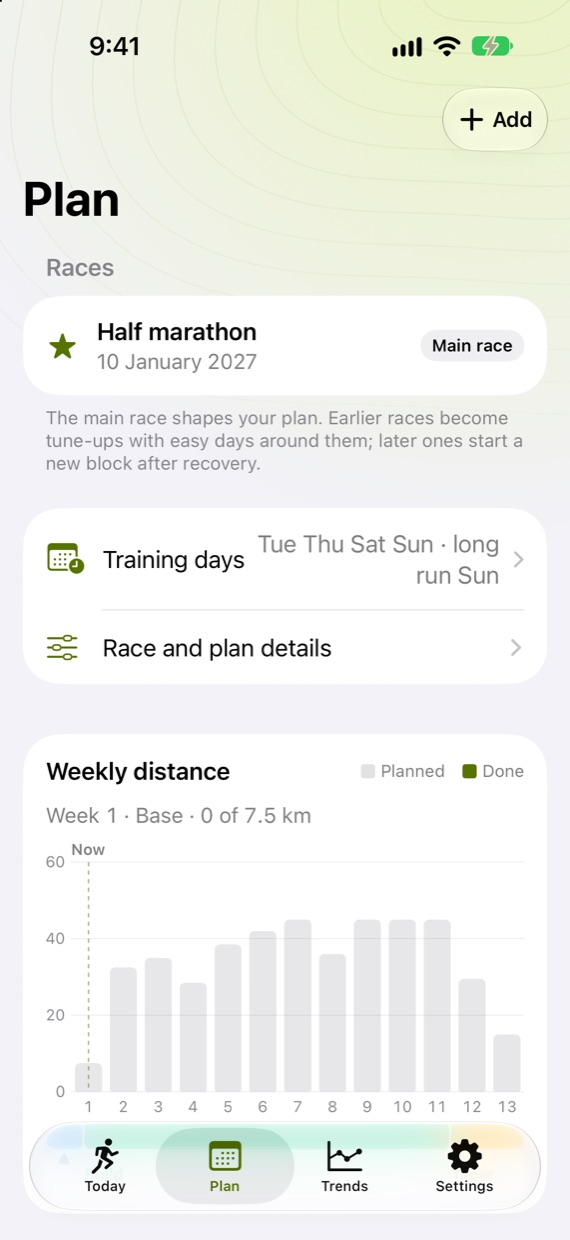
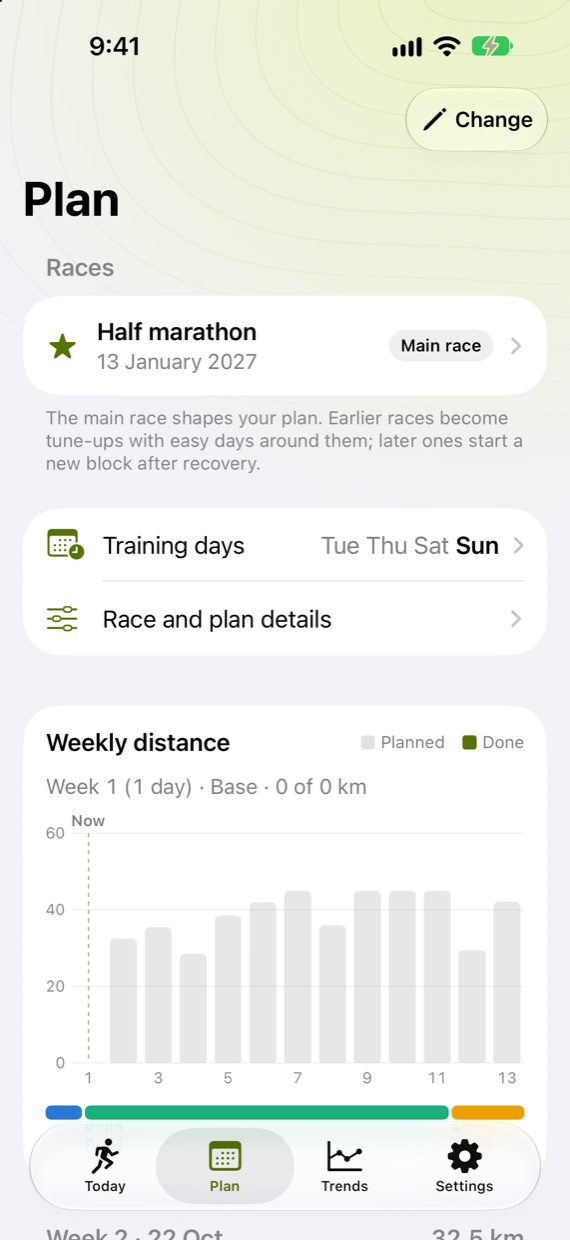
Bring site up to date with 0.65: privacy (heart rates stay on device, photos, Siri, no Sign in with Apple), habit goals, training methods, Siri and week options, new screenshots

diff --git a/index.html b/index.html
@@ -20,7 +20,7 @@
   <div>
     <span class="eyebrow">For iPhone and Apple Watch</span>
     <h1>Train for <em>race day</em>, not a template.</h1>
-    <p class="lede">Pick your event and date. RaceWise builds a safe, step-by-step plan from where you are now – and changes it with you.</p>
+    <p class="lede">Pick a race, set a personal target or simply build a habit. RaceWise builds a safe, step-by-step plan from where you are now – and changes it with you.</p>
     <div class="cta">
       <span class="btn btn-primary"><span class="dot"></span>Coming soon to the App Store</span>
       <a class="btn btn-ghost" href="#how">How it works</a>
@@ -28,7 +28,7 @@
     <div class="sports"><span><i aria-hidden="true">🏃</i>Running</span><span><i aria-hidden="true">🏊</i>Swimming</span><span><i aria-hidden="true">🚴</i>Cycling</span><span><i aria-hidden="true">🚣</i>Rowing</span></div>
   </div>
   <div class="phones" aria-hidden="true">
-    <div class="phone back"><img src="img/en-plan.jpg" alt="" loading="lazy"></div>
+    <div class="phone back"><img src="img/en-plan.jpg" alt=""></div>
     <div class="phone front"><img src="img/en-today.jpg" alt=""></div>
   </div>
 </div></section>
@@ -37,7 +37,7 @@
   <section class="section" id="features">
     <div class="section-head"><span class="eyebrow">Why RaceWise</span><h2>A coach that keeps up with real life.</h2><p>Plans that bend when your week does – without ever piling on missed training.</p></div>
     <div class="features">
-      <div class="feature"><div class="ico"><svg viewBox="0 0 24 24"><path d="M4 22V4"/><path d="M4 4h12l-2 4 2 4H4"/></svg></div><h3>Built around your race</h3><p>Choose from hundreds of checked events or type your own. Every week leads to your race day.</p></div>
+      <div class="feature"><div class="ico"><svg viewBox="0 0 24 24"><path d="M4 22V4"/><path d="M4 4h12l-2 4 2 4H4"/></svg></div><h3>Built around your goal</h3><p>Choose from hundreds of checked events, set your own target date, or just build a habit with easy, short sessions.</p></div>
       <div class="feature"><div class="ico"><svg viewBox="0 0 24 24"><path d="M21 12a9 9 0 1 1-3-6.7L21 8"/><path d="M21 3v5h-5"/></svg></div><h3>Adjusts as you go</h3><p>Move or skip sessions, run a day early – the plan rebalances. It never crams missed training back in.</p></div>
       <div class="feature"><div class="ico"><svg viewBox="0 0 24 24"><path d="M20.8 4.6a5.5 5.5 0 0 0-7.8 0L12 5.7l-1-1.1a5.5 5.5 0 0 0-7.8 7.8L12 21l8.8-8.6a5.5 5.5 0 0 0 0-7.8z"/><path d="M3 12h4l2-3 3 6 2-3h7"/></svg></div><h3>Listens to your body</h3><p>Reads runs, resting heart rate, HRV and sleep from Apple Health and eases off when you need it.</p></div>
       <div class="feature"><div class="ico"><svg viewBox="0 0 24 24"><rect x="6" y="6" width="12" height="12" rx="3"/><path d="M9 6l1-4h4l1 4M9 18l1 4h4l1-4"/><path d="M12 10v2l1.5 1"/></svg></div><h3>On your Apple Watch</h3><p>Sessions appear in the Workout app with pace and heart-rate alerts. Nothing to tap in RaceWise.</p></div>
@@ -50,17 +50,17 @@
     <div class="section-head"><span class="eyebrow">Only in RaceWise</span><h2>Different where it matters.</h2><p>The things we built because other training plans kept getting them wrong.</p></div>
     <div class="spots">
       <div class="spot"><div class="spot-text"><span class="spot-k">Multi-sport</span><h3>One plan for every sport you race.</h3><p>Training for a half marathon and a sportive? Add both. RaceWise plans running, swimming, cycling and rowing together, moves sessions so hard days never land back to back, and handles multi-day bike events with back-to-back long rides.</p></div><div class="viz week"><div class="wd rest"><span class="d">Mon</span><span class="s">–</span><span class="t"></span></div><div class="wd hard"><span class="d">Tue</span><span class="s">🏃</span><span class="t">Intervals</span></div><div class="wd"><span class="d">Wed</span><span class="s">🏊</span><span class="t">Easy</span></div><div class="wd hard"><span class="d">Thu</span><span class="s">🚴</span><span class="t">Tempo</span></div><div class="wd rest"><span class="d">Fri</span><span class="s">–</span><span class="t"></span></div><div class="wd hard"><span class="d">Sat</span><span class="s">🏃</span><span class="t">Long run</span></div><div class="wd"><span class="d">Sun</span><span class="s">🚴</span><span class="t">Easy</span></div></div></div>
-      <div class="spot flip"><div class="spot-text"><span class="spot-k">Honest AI coach</span><h3>An AI coach that can’t make up numbers.</h3><p>The coach runs on your iPhone with Apple Intelligence – free, private and offline. It explains your day in plain words, but every pace, distance and date comes from the training engine. If the AI ever writes a number that isn’t in your plan, RaceWise shows a plain summary instead.</p></div><div class="viz chat"><div class="bubble">Today is an <b>easy run</b> of <b>7.5 km</b> at <b>5:46–6:21 /km</b>. Keep it conversational – this builds the base for <b>10 January</b>.</div><div class="chat-meta"><span class="ok">✓</span>Every number checked against your plan</div></div></div>
-      <div class="spot"><div class="spot-text"><span class="spot-k">Safety first</span><h3>Built to keep you running, not to push you.</h3><p>Every plan passes a safety check before you see it. Weekly volume rises slowly (more slowly for beginners, over-50s and anyone coming back from injury), and big changes wait for your OK. Report pain and it is never played down; warning signs such as chest pain, palpitations or sharp bone pain tell you to stop and get checked.</p></div><div class="viz ramp"><div class="bars"><span style="height:38%"></span><span style="height:42%"></span><span style="height:46%"></span><span style="height:34%" class="down"></span><span style="height:50%"></span><span style="height:55%"></span><span style="height:60%"></span><span style="height:44%" class="down"></span><span style="height:66%"></span><span style="height:72%"></span><span style="height:52%" class="down"></span><span style="height:30%" class="down"></span></div><div class="ramp-legend"><span><i class="sw up"></i>Builds no more than 10% a week</span><span><i class="sw dn"></i>Easier weeks to recover</span></div></div></div>
-      <div class="spot flip"><div class="spot-text"><span class="spot-k">Your way to train</span><h3>Train by pace, heart rate, power or feel.</h3><p>Choose how each sport is coached and see the pros and cons of every method first. Your targets only change from real results: RaceWise schedules a short fitness check about every six weeks – a 3K or 5K run, a swim test or a 2k row – and updates your zones from it.</p></div><div class="viz methods"><div class="m-row"><span class="m-sport">🏃</span><span class="m-chips"><i class="on">Race result paces</i><i>Race-equivalent</i><i>Heart rate</i><i>Low heart rate</i><i>Feel</i></span></div><div class="m-row"><span class="m-sport">🏊</span><span class="m-chips"><i class="on">Threshold pace</i><i>Feel</i></span></div><div class="m-row"><span class="m-sport">🚴</span><span class="m-chips"><i class="on">Power</i><i>Heart rate</i><i>Feel</i></span></div><div class="m-row"><span class="m-sport">🚣</span><span class="m-chips"><i class="on">2k split</i><i>Heart rate</i><i>Feel</i></span></div></div></div>
+      <div class="spot flip"><div class="spot-text"><span class="spot-k">Honest AI coach</span><h3>An AI coach that can’t make up numbers.</h3><p>The coach runs on your iPhone with Apple Intelligence – free, private and offline. It explains your day in plain words, but every pace, distance and date comes from the training engine. If the AI ever writes a number that isn’t in your plan, RaceWise shows a plain summary instead.</p></div><div class="viz chat"><div class="bubble">Today is an <b>easy run</b> of <b>7.5 km</b> at <b>5:46–6:21 /km</b>. Keep it conversational – this builds the base for <b>13 January</b>.</div><div class="chat-meta"><span class="ok">✓</span>Every number checked against your plan</div></div></div>
+      <div class="spot"><div class="spot-text"><span class="spot-k">Safety first</span><h3>Built to keep you running, not to push you.</h3><p>Every plan passes a safety check before you see it. Weekly volume rises slowly (more slowly for beginners, older athletes and anyone coming back from injury), long runs grow by no more than 10% at a time, and big changes wait for your OK. Report pain and it is never played down; warning signs such as chest pain, palpitations or sharp bone pain tell you to stop and get checked.</p></div><div class="viz ramp"><div class="bars"><span style="height:38%"></span><span style="height:42%"></span><span style="height:46%"></span><span style="height:34%" class="down"></span><span style="height:50%"></span><span style="height:55%"></span><span style="height:60%"></span><span style="height:44%" class="down"></span><span style="height:66%"></span><span style="height:72%"></span><span style="height:52%" class="down"></span><span style="height:30%" class="down"></span></div><div class="ramp-legend"><span><i class="sw up"></i>Builds no more than 10% a week</span><span><i class="sw dn"></i>Easier weeks to recover</span></div></div></div>
+      <div class="spot flip"><div class="spot-text"><span class="spot-k">Your way to train</span><h3>Train by pace, heart rate, power or feel.</h3><p>Choose how each sport is coached and see the pros and cons of every method first. Your targets only change from real results: RaceWise schedules a short fitness check about every six weeks – a 3K or 5K run, a swim test or a 2k row – and updates your zones from it.</p></div><div class="viz methods"><div class="m-row"><span class="m-sport">🏃</span><span class="m-chips"><i class="on">Race-result paces</i><i>Race-equivalent paces</i><i>Heart rate</i><i>Low heart rate</i><i>Three zones</i><i>Feel</i></span></div><div class="m-row"><span class="m-sport">🏊</span><span class="m-chips"><i class="on">CSS pace</i><i>Threshold pace</i><i>Feel</i></span></div><div class="m-row"><span class="m-sport">🚴</span><span class="m-chips"><i class="on">Power</i><i>Three zones</i><i>Heart rate</i><i>Feel</i></span></div><div class="m-row"><span class="m-sport">🚣</span><span class="m-chips"><i class="on">2k split</i><i>Heart rate</i><i>Feel</i></span></div></div></div>
     </div>
-    <div class="minis"><div class="mini"><h4>Missed a session? Let it go.</h4><p>RaceWise never piles missed training into later weeks. Did it a day early? It notices.</p></div><div class="mini"><h4>Strength for your sport</h4><p>Short strength and mobility routines for running, swimming, cycling and rowing, with animated guides. No equipment needed.</p></div><div class="mini"><h4>After the finish line</h4><p>Recovery guidance after your race, then a choice: plan the next one, keep your fitness, or take a proper break.</p></div><div class="mini"><h4>Hundreds of checked events</h4><p>Running, cycling, swimming and rowing events from around the world, dates checked against the organisers.</p></div></div>
+    <div class="minis"><div class="mini"><h4>Missed a session? Let it go.</h4><p>RaceWise never piles missed training into later weeks. Did it a day early? It notices.</p></div><div class="mini"><h4>Strength for your sport</h4><p>Short strength and mobility routines for running, swimming, cycling and rowing, with animated guides. No equipment needed.</p></div><div class="mini"><h4>After the finish line</h4><p>Recovery guidance after your race, then a choice: plan the next one, keep your fitness, or take a proper break.</p></div><div class="mini"><h4>Hundreds of checked events</h4><p>Running, cycling, swimming and rowing events from around the world, dates checked against the organisers.</p></div><div class="mini"><h4>Just say it</h4><p>Tell RaceWise “I can’t train on Thursday” and it shows the safe changes first. Ask Siri for today’s session, or log a result from a photo.</p></div><div class="mini"><h4>Fits your week</h4><p>Start your week on Monday or Sunday, train mornings or evenings, run on a treadmill, and add a second longer day when you’re ready.</p></div></div>
   </section>
 
   <section class="section" id="how">
     <div class="section-head"><span class="eyebrow">How it works</span><h2>Three steps to the start line.</h2></div>
     <div class="steps">
-      <div class="step"><h3>Tell it your race</h3><p>Event, date and how training is going now. A few minutes, no account.</p></div>
+      <div class="step"><h3>Tell it your goal</h3><p>A race, a target date or a habit, and how training is going now. A few minutes, no account.</p></div>
       <div class="step"><h3>Get your plan</h3><p>Easy days, long days and quality sessions with paces and heart-rate zones that fit you.</p></div>
       <div class="step"><h3>Train and adapt</h3><p>Log or sync each session. RaceWise reads how you're doing and adjusts the weeks ahead.</p></div>
     </div>

diff --git a/zh/index.html b/zh/index.html
@@ -20,7 +20,7 @@
   <div>
     <span class="eyebrow">適用於 iPhone 及 Apple Watch</span>
     <h1>為<em>比賽日</em>而練，<br>不是照抄範本。</h1>
-    <p class="lede">選擇活動和日期，RaceWise 會從你現在的水平出發，安排安全、循序漸進的計劃——並跟你一起調整。</p>
+    <p class="lede">選擇比賽、訂下個人目標，或者只想養成運動習慣，RaceWise 都會從你現在的水平出發，安排安全、循序漸進的計劃——並跟你一起調整。</p>
     <div class="cta">
       <span class="btn btn-primary"><span class="dot"></span>即將登陸 App Store</span>
       <a class="btn btn-ghost" href="#how">運作方式</a>
@@ -28,7 +28,7 @@
     <div class="sports"><span><i aria-hidden="true">🏃</i>跑步</span><span><i aria-hidden="true">🏊</i>游泳</span><span><i aria-hidden="true">🚴</i>單車</span><span><i aria-hidden="true">🚣</i>划艇</span></div>
   </div>
   <div class="phones" aria-hidden="true">
-    <div class="phone back"><img src="../img/zh-plan.jpg" alt="" loading="lazy"></div>
+    <div class="phone back"><img src="../img/zh-plan.jpg" alt=""></div>
     <div class="phone front"><img src="../img/zh-today.jpg" alt=""></div>
   </div>
 </div></section>
@@ -37,7 +37,7 @@
   <section class="section" id="features">
     <div class="section-head"><span class="eyebrow">為甚麼選 RaceWise</span><h2>跟得上真實生活的教練。</h2><p>一星期有變，計劃也會跟著變——但絕不會把錯過的訓練硬塞回來。</p></div>
     <div class="features">
-      <div class="feature"><div class="ico"><svg viewBox="0 0 24 24"><path d="M4 22V4"/><path d="M4 4h12l-2 4 2 4H4"/></svg></div><h3>以你的比賽為中心</h3><p>從數百個經查證的活動中選擇，或自己輸入。每一週都朝著比賽日進發。</p></div>
+      <div class="feature"><div class="ico"><svg viewBox="0 0 24 24"><path d="M4 22V4"/><path d="M4 4h12l-2 4 2 4H4"/></svg></div><h3>以你的目標為中心</h3><p>從數百個經查證的活動中選擇、自己訂下目標日，或者用輕鬆短課慢慢養成運動習慣。</p></div>
       <div class="feature"><div class="ico"><svg viewBox="0 0 24 24"><path d="M21 12a9 9 0 1 1-3-6.7L21 8"/><path d="M21 3v5h-5"/></svg></div><h3>隨時調整</h3><p>搬課、略過、提早一天跑，計劃都會自動重新平衡，絕不會把錯過的訓練硬塞回來。</p></div>
       <div class="feature"><div class="ico"><svg viewBox="0 0 24 24"><path d="M20.8 4.6a5.5 5.5 0 0 0-7.8 0L12 5.7l-1-1.1a5.5 5.5 0 0 0-7.8 7.8L12 21l8.8-8.6a5.5 5.5 0 0 0 0-7.8z"/><path d="M3 12h4l2-3 3 6 2-3h7"/></svg></div><h3>聆聽身體</h3><p>從 Apple 健康讀取跑步、靜息心率、HRV 和睡眠，身體需要時自動減輕訓練。</p></div>
       <div class="feature"><div class="ico"><svg viewBox="0 0 24 24"><rect x="6" y="6" width="12" height="12" rx="3"/><path d="M9 6l1-4h4l1 4M9 18l1 4h4l1-4"/><path d="M12 10v2l1.5 1"/></svg></div><h3>直接放到 Apple Watch</h3><p>課表自動出現在手錶「體能訓練」App，附配速和心率提示，不用再開 RaceWise。</p></div>
@@ -50,17 +50,17 @@
     <div class="section-head"><span class="eyebrow">RaceWise 獨有</span><h2>在重要的地方與別不同。</h2><p>這些功能，都是因為一般訓練計劃總是做得不好，我們才決定做好。</p></div>
     <div class="spots">
       <div class="spot"><div class="spot-text"><span class="spot-k">多項運動</span><h3>你參加的每項運動，一個計劃搞定。</h3><p>同時備戰半馬和單車賽？兩個都加進去。RaceWise 把跑步、游泳、單車、划艇放在同一個計劃，自動搬課讓辛苦日不會連在一起，多日單車賽也會安排連續兩日長途。</p></div><div class="viz week"><div class="wd rest"><span class="d">一</span><span class="s">–</span><span class="t"></span></div><div class="wd hard"><span class="d">二</span><span class="s">🏃</span><span class="t">間歇</span></div><div class="wd"><span class="d">三</span><span class="s">🏊</span><span class="t">輕鬆</span></div><div class="wd hard"><span class="d">四</span><span class="s">🚴</span><span class="t">節奏</span></div><div class="wd rest"><span class="d">五</span><span class="s">–</span><span class="t"></span></div><div class="wd hard"><span class="d">六</span><span class="s">🏃</span><span class="t">長課</span></div><div class="wd"><span class="d">日</span><span class="s">🚴</span><span class="t">輕鬆</span></div></div></div>
-      <div class="spot flip"><div class="spot-text"><span class="spot-k">誠實的 AI 教練</span><h3>不會亂作數字的 AI 教練。</h3><p>教練以 Apple Intelligence 在你的 iPhone 上運行——免費、私密、毋須上網。它用日常語言解釋今日的訓練，但每個配速、距離和日期都來自訓練引擎。只要 AI 寫出計劃裡沒有的數字，RaceWise 就會改為顯示簡單摘要。</p></div><div class="viz chat"><div class="bubble">今日是 <b>7.5 km 輕鬆跑</b>，配速 <b>5:46–6:21 /km</b>。用傾到偈的速度跑，為 <b>1月10日</b> 的比賽打好基礎。</div><div class="chat-meta"><span class="ok">✓</span>每個數字都與你的計劃核對過</div></div></div>
-      <div class="spot"><div class="spot-text"><span class="spot-k">安全第一</span><h3>為了讓你一直跑下去，而不是逼你。</h3><p>每份計劃在你看到之前都要通過安全檢查。每週訓練量慢慢增加（初學者、50 歲以上和傷後復出會更慢），大改動要你確認才生效。報告疼痛時絕不會被看輕；胸痛、心悸、刺痛或骨痛等警號會叫你停下並求診。</p></div><div class="viz ramp"><div class="bars"><span style="height:38%"></span><span style="height:42%"></span><span style="height:46%"></span><span style="height:34%" class="down"></span><span style="height:50%"></span><span style="height:55%"></span><span style="height:60%"></span><span style="height:44%" class="down"></span><span style="height:66%"></span><span style="height:72%"></span><span style="height:52%" class="down"></span><span style="height:30%" class="down"></span></div><div class="ramp-legend"><span><i class="sw up"></i>每週加量不超過 10%</span><span><i class="sw dn"></i>較輕鬆的恢復週</span></div></div></div>
-      <div class="spot flip"><div class="spot-text"><span class="spot-k">你的訓練方式</span><h3>按配速、心率、功率或體感訓練。</h3><p>每項運動都可以選擇訓練方式，先看清每種方法的優點和缺點。目標只會因真實成績而改變：RaceWise 大約每六星期安排一次簡短的體能測試——3 公里或 5 公里跑、游泳測試或 2k 划艇——再據此更新你的區間。</p></div><div class="viz methods"><div class="m-row"><span class="m-sport">🏃</span><span class="m-chips"><i class="on">比賽成績配速</i><i>比賽換算配速</i><i>心率</i><i>低心率</i><i>體感</i></span></div><div class="m-row"><span class="m-sport">🏊</span><span class="m-chips"><i class="on">閾值配速</i><i>體感</i></span></div><div class="m-row"><span class="m-sport">🚴</span><span class="m-chips"><i class="on">功率</i><i>心率</i><i>體感</i></span></div><div class="m-row"><span class="m-sport">🚣</span><span class="m-chips"><i class="on">2k 分段</i><i>心率</i><i>體感</i></span></div></div></div>
+      <div class="spot flip"><div class="spot-text"><span class="spot-k">誠實的 AI 教練</span><h3>不會亂作數字的 AI 教練。</h3><p>教練以 Apple Intelligence 在你的 iPhone 上運行——免費、私密、毋須上網。它用日常語言解釋今日的訓練，但每個配速、距離和日期都來自訓練引擎。只要 AI 寫出計劃裡沒有的數字，RaceWise 就會改為顯示簡單摘要。</p></div><div class="viz chat"><div class="bubble">今日是 <b>7.5 km 輕鬆跑</b>，配速 <b>5:46–6:21 /km</b>。用傾到偈的速度跑，為 <b>1月13日</b> 的比賽打好基礎。</div><div class="chat-meta"><span class="ok">✓</span>每個數字都與你的計劃核對過</div></div></div>
+      <div class="spot"><div class="spot-text"><span class="spot-k">安全第一</span><h3>為了讓你一直跑下去，而不是逼你。</h3><p>每份計劃在你看到之前都要通過安全檢查。每週訓練量慢慢增加（初學者、年長人士和傷後復出會更慢），長課每次最多加 10%，大改動要你確認才生效。報告疼痛時絕不會被看輕；胸痛、心悸、刺痛或骨痛等警號會叫你停下並求診。</p></div><div class="viz ramp"><div class="bars"><span style="height:38%"></span><span style="height:42%"></span><span style="height:46%"></span><span style="height:34%" class="down"></span><span style="height:50%"></span><span style="height:55%"></span><span style="height:60%"></span><span style="height:44%" class="down"></span><span style="height:66%"></span><span style="height:72%"></span><span style="height:52%" class="down"></span><span style="height:30%" class="down"></span></div><div class="ramp-legend"><span><i class="sw up"></i>每週加量不超過 10%</span><span><i class="sw dn"></i>較輕鬆的恢復週</span></div></div></div>
+      <div class="spot flip"><div class="spot-text"><span class="spot-k">你的訓練方式</span><h3>按配速、心率、功率或體感訓練。</h3><p>每項運動都可以選擇訓練方式，先看清每種方法的優點和缺點。目標只會因真實成績而改變：RaceWise 大約每六星期安排一次簡短的體能測試——3 公里或 5 公里跑、游泳測試或 2k 划艇——再據此更新你的區間。</p></div><div class="viz methods"><div class="m-row"><span class="m-sport">🏃</span><span class="m-chips"><i class="on">比賽成績配速</i><i>比賽換算配速</i><i>心率</i><i>低心率</i><i>三區</i><i>體感</i></span></div><div class="m-row"><span class="m-sport">🏊</span><span class="m-chips"><i class="on">CSS 配速</i><i>閾值配速</i><i>體感</i></span></div><div class="m-row"><span class="m-sport">🚴</span><span class="m-chips"><i class="on">功率</i><i>三區</i><i>心率</i><i>體感</i></span></div><div class="m-row"><span class="m-sport">🚣</span><span class="m-chips"><i class="on">2k 分段</i><i>心率</i><i>體感</i></span></div></div></div>
     </div>
-    <div class="minis"><div class="mini"><h4>錯過一課？由它吧。</h4><p>RaceWise 絕不會把錯過的訓練塞進之後幾週。提早一天做了？它也會知道。</p></div><div class="mini"><h4>為你的運動而設的肌力訓練</h4><p>跑步、游泳、單車、划艇各有簡短的肌力和伸展套路，附動畫示範，毋須器材。</p></div><div class="mini"><h4>衝線之後</h4><p>比賽後有恢復指引，然後由你選擇：計劃下一場、保持體能，或好好休息一段時間。</p></div><div class="mini"><h4>數百個經查證的活動</h4><p>世界各地的跑步、單車、游泳和划艇活動，日期都與主辦單位核對過。</p></div></div>
+    <div class="minis"><div class="mini"><h4>錯過一課？由它吧。</h4><p>RaceWise 絕不會把錯過的訓練塞進之後幾週。提早一天做了？它也會知道。</p></div><div class="mini"><h4>為你的運動而設的肌力訓練</h4><p>跑步、游泳、單車、划艇各有簡短的肌力和伸展套路，附動畫示範，毋須器材。</p></div><div class="mini"><h4>衝線之後</h4><p>比賽後有恢復指引，然後由你選擇：計劃下一場、保持體能，或好好休息一段時間。</p></div><div class="mini"><h4>數百個經查證的活動</h4><p>世界各地的跑步、單車、游泳和划艇活動，日期都與主辦單位核對過。</p></div><div class="mini"><h4>一句話就搞定</h4><p>對 RaceWise 說「我星期四練不到」，它會先顯示安全的更改。也可以問 Siri 今日練甚麼，或者影相記錄成績。</p></div><div class="mini"><h4>配合你的一星期</h4><p>一星期由星期一或星期日開始、早上或晚上練、在跑步機上跑，準備好時再加一日較長的課。</p></div></div>
   </section>
 
   <section class="section" id="how">
     <div class="section-head"><span class="eyebrow">運作方式</span><h2>三步走到起跑線。</h2></div>
     <div class="steps">
-      <div class="step"><h3>告訴它你的比賽</h3><p>活動、日期和你現在的訓練狀況。幾分鐘就完成，不用註冊。</p></div>
+      <div class="step"><h3>告訴它你的目標</h3><p>比賽、目標日或者養成習慣，以及你現在的訓練狀況。幾分鐘就完成，不用註冊。</p></div>
       <div class="step"><h3>取得你的計劃</h3><p>輕鬆課、長課和質素課，配速和心率區都按你度身訂造。</p></div>
       <div class="step"><h3>邊練邊調整</h3><p>記錄或同步每一課。RaceWise 會了解你的狀態，調整之後幾週的安排。</p></div>
     </div>

diff --git a/privacy.html b/privacy.html
@@ -7,15 +7,14 @@
 </head>
 <body><main>
 <header><img src="icon.png" alt=""><div><h1>Privacy policy</h1><nav><a href="./">RaceWise</a><details class="lang"><summary><svg viewBox="0 0 24 24" aria-hidden="true"><circle cx="12" cy="12" r="9"/><path d="M3 12h18M12 3a14 14 0 0 1 0 18M12 3a14 14 0 0 0 0 18"/></svg><span>Language</span><svg class="chev" viewBox="0 0 24 24" aria-hidden="true"><path d="M6 9l6 6 6-6"/></svg></summary><div class="lang-menu"><a href="privacy.html" lang="en" aria-current="page">English</a><a href="zh/privacy.html" lang="zh-Hant">中文</a></div></details></nav></div></header>
-<p class="muted">Effective 18 October 2026</p>
+<p class="muted">Effective 21 October 2026</p>
 
 <p><b>In short:</b> RaceWise has no server and no analytics. The developer never receives your data. Everything stays on your iPhone and in your own private iCloud.</p>
 
 <h2>What RaceWise keeps, and where</h2>
 <ul>
-  <li><b>On your iPhone:</b> your races, plan, workouts (logged by you, or imported from Apple Health with their date, distance, duration and average and maximum heart rate), check-ins (tiredness, soreness, pain), training days and profile (for example age, which you enter or RaceWise works out from your date of birth, injury history, and heart rates you enter or RaceWise detects from Apple Health).</li>
-  <li><b>In your private iCloud:</b> the same items sync to your other devices through Apple's iCloud, in a private database that only your Apple Account can read. Daily resting heart rate, HRV and sleep readings are not synced; plans adjusted because of them do sync, as part of your plan. If iCloud isn't available, everything stays on your iPhone.</li>
-  <li><b>Sign in with Apple (optional):</b> if you use it, the name and email Apple shares are kept the same way, on your devices and in your private iCloud only.</li>
+  <li><b>On your iPhone:</b> your races, plan, workouts (logged by you, or imported from Apple Health with their date, distance, duration and average and maximum heart rate), check-ins (tiredness, soreness, pain), training days, training method and profile (for example age, which you enter or RaceWise works out from your date of birth, injury history, and maximum and resting heart rate, which you enter or RaceWise detects from Apple Health).</li>
+  <li><b>In your private iCloud:</b> these items sync to your other devices through Apple's iCloud, in a private database that only your Apple Account can read. <b>Heart-rate information is not synced:</b> heart rates of workouts imported from Apple Health, your maximum and resting heart rate, your heart-rate zones, and daily resting heart rate, HRV and sleep readings, along with any warnings worked out from them, stay on the iPhone that read them. Each of your devices uses its own. The sessions they made easier do sync, as part of your plan. Heart rates you type into a workout yourself sync with that workout. If iCloud isn't available, everything stays on your iPhone.</li>
 </ul>
 
 <h2>Optional details kept only on your iPhone</h2>
@@ -32,7 +31,13 @@
 <p>If you turn it on, RaceWise places your upcoming sessions in the Workout app on your Apple Watch using Apple's WorkoutKit. Finished workouts come back through Apple Health.</p>
 
 <h2>AI coach</h2>
-<p>Coaching text is written by Apple Intelligence on your device, and notes you type in a check-in are read there too; the note itself isn't saved, only the values you confirm. Nothing you type or any of your data is sent to an AI service. Without Apple Intelligence, RaceWise uses built-in wording.</p>
+<p>Coaching text is written by Apple Intelligence on your device. Anything you type for RaceWise to read is read there too: a check-in note, how a session felt, a request to change your plan, a question about your plan, or a description of your training. What you type isn't saved, only the values and changes you confirm. Nothing you type or any of your data is sent to an AI service. Without Apple Intelligence, RaceWise uses built-in wording.</p>
+
+<h2>Photos</h2>
+<p>If you choose a photo to read a result from (for example a finisher certificate or a treadmill screen), RaceWise reads the text on your iPhone. The photo isn't saved or uploaded; only the numbers you check and save are kept. RaceWise can see only the photo you pick. If you share a workout card and choose to save it, RaceWise asks for permission to add that image to your Photos; it can't read your library.</p>
+
+<h2>Siri and Shortcuts</h2>
+<p>You can ask Siri for today's training or your race countdown, log a workout, check in or change your plan. Siri handles your voice under Apple's own privacy terms; RaceWise receives only the request and does the rest on your iPhone. Siri asks you to unlock your iPhone first, and reads changes back to you to confirm before they are made.</p>
 
 <h2>Event list</h2>
 <p>RaceWise comes with a built-in list of events. To keep it up to date, the app may download a public list of events from this website, at most once a day, when you open the event list. The request carries no personal information. Like any website, the host may keep standard technical logs such as IP addresses.</p>
@@ -51,7 +56,7 @@
 <p>RaceWise keeps your data until you delete it. Earlier versions of your plan are kept as history. Daily recovery readings cover the last 30 days and are replaced at each sync. Your iPhone's own backups (iCloud Backup or a computer) may include RaceWise's data on that iPhone, depending on your settings.</p>
 
 <h2>Deleting your data</h2>
-<p>In RaceWise, <b>Settings › Delete all data</b> removes your races, plans, workouts, check-ins, profile and account details from your iPhone and, through iCloud, from your other devices. It also removes RaceWise reminders and sessions sent to your Apple Watch, and stops reading Apple Health. Apple Health itself isn't changed. If your iPhone is offline, the deletion reaches iCloud when it's back online; if iCloud isn't available, RaceWise tells you and asks you to finish deleting later.</p>
+<p>In RaceWise, <b>Settings › Delete all data</b> removes your races, plans, workouts, check-ins and profile from your iPhone and, through iCloud, from your other devices. It also removes RaceWise reminders and sessions sent to your Apple Watch, and stops reading Apple Health. Apple Health itself isn't changed. If your iPhone is offline, the deletion reaches iCloud when it's back online; if iCloud isn't available, RaceWise tells you and asks you to finish deleting later.</p>
 <p>Deleting the app removes its data from that iPhone only, not the copy in your iCloud. You can also revoke Health, location and Apple Watch access at any time in Settings.</p>
 
 <h2>Contact</h2>

diff --git a/zh/privacy.html b/zh/privacy.html
@@ -7,15 +7,14 @@
 </head>
 <body><main>
 <header><img src="../icon.png" alt=""><div><h1>私隱政策</h1><nav><a href="./">RaceWise</a><details class="lang"><summary><svg viewBox="0 0 24 24" aria-hidden="true"><circle cx="12" cy="12" r="9"/><path d="M3 12h18M12 3a14 14 0 0 1 0 18M12 3a14 14 0 0 0 0 18"/></svg><span>語言</span><svg class="chev" viewBox="0 0 24 24" aria-hidden="true"><path d="M6 9l6 6 6-6"/></svg></summary><div class="lang-menu"><a href="../privacy.html" lang="en">English</a><a href="privacy.html" lang="zh-Hant" aria-current="page">中文</a></div></details></nav></div></header>
-<p class="muted">生效日期：2026 年 10 月 18 日</p>
+<p class="muted">生效日期：2026 年 10 月 21 日</p>
 
 <p><b>簡單來說：</b>RaceWise 沒有伺服器，也沒有任何分析工具。開發者不會收到你的資料。所有資料都留在你的 iPhone 和你自己的私人 iCloud。</p>
 
 <h2>RaceWise 保存甚麼、存在哪裡</h2>
 <ul>
-  <li><b>你的 iPhone：</b>比賽、訓練計畫、訓練紀錄（你自己記錄的，或從 Apple 健康匯入的日期、距離、時間、平均及最高心率）、身體狀況紀錄（疲勞、痠痛、疼痛）、訓練日及個人資料（例如你輸入或由出生日期推算的年齡、傷患紀錄、你輸入或從 Apple 健康偵測到的心率）。</li>
-  <li><b>你的私人 iCloud：</b>以上資料透過 Apple iCloud 同步到你的其他裝置，存放於只有你的 Apple 帳戶可讀取的私人資料庫。每日靜息心率、HRV 和睡眠數據不會同步；因這些數據而調整的計畫則會作為計畫的一部分同步。如 iCloud 無法使用，所有資料只會留在你的 iPhone。</li>
-  <li><b>以 Apple 登入（可選）：</b>如使用，Apple 提供的名字和電郵同樣只存在你的裝置及私人 iCloud。</li>
+  <li><b>你的 iPhone：</b>比賽、訓練計畫、訓練紀錄（你自己記錄的，或從 Apple 健康匯入的日期、距離、時間、平均及最高心率）、身體狀況紀錄（疲勞、痠痛、疼痛）、訓練日、訓練方式及個人資料（例如你輸入或由出生日期推算的年齡、傷患紀錄，以及你輸入或從 Apple 健康偵測到的最高及靜息心率）。</li>
+  <li><b>你的私人 iCloud：</b>以上資料透過 Apple iCloud 同步到你的其他裝置，存放於只有你的 Apple 帳戶可讀取的私人資料庫。<b>心率資料不會同步：</b>從 Apple 健康匯入的訓練心率、你的最高及靜息心率、心率區間，以及每日靜息心率、HRV 和睡眠數據，連同由這些數據得出的提示，都只留在讀取它們的那部 iPhone；你每部裝置各自使用自己的資料。因這些數據而調輕的課則會作為計畫的一部分同步。你自己在訓練紀錄輸入的心率會隨該紀錄同步。如 iCloud 無法使用，所有資料只會留在你的 iPhone。</li>
 </ul>
 
 <h2>只存在你 iPhone 上的選填資料</h2>
@@ -32,7 +31,13 @@
 <p>如你開啟，RaceWise 會透過 Apple 的 WorkoutKit 把未來的課表放到 Apple Watch 的「體能訓練」App。完成的訓練經 Apple 健康傳回。</p>
 
 <h2>AI 教練</h2>
-<p>教練文字由你裝置上的 Apple Intelligence 撰寫，你在身體狀況紀錄輸入的文字亦在裝置上讀取；文字本身不會保存，只會保存你確認的數值。你輸入的內容和任何資料都不會傳送到 AI 服務。沒有 Apple Intelligence 時，RaceWise 會使用內建文字。</p>
+<p>教練文字由你裝置上的 Apple Intelligence 撰寫。你輸入給 RaceWise 讀取的文字亦在裝置上讀取：身體狀況備註、課後感受、更改計畫的要求、有關計畫的提問，或對自己訓練的描述。文字本身不會保存，只會保存你確認的數值和更改。你輸入的內容和任何資料都不會傳送到 AI 服務。沒有 Apple Intelligence 時，RaceWise 會使用內建文字。</p>
+
+<h2>相片</h2>
+<p>如你選擇一張相片讀取成績（例如完賽證書或跑步機螢幕），RaceWise 會在你的 iPhone 上讀取相中文字。相片不會保存或上傳，只會保留你核對後儲存的數字。RaceWise 只能看到你所選的那張相片。如你分享訓練卡並選擇儲存，RaceWise 會請求權限把該圖片加入你的「照片」，但無法讀取你的相簿。</p>
+
+<h2>Siri 及捷徑</h2>
+<p>你可以問 Siri 今日的訓練或比賽倒數、記錄訓練、填寫身體狀況或更改計畫。Siri 按 Apple 自己的私隱條款處理你的語音；RaceWise 只會收到該要求，其餘都在你的 iPhone 上處理。Siri 會先要求你解鎖 iPhone，計畫的更改亦會先讀出給你確認才生效。</p>
 
 <h2>活動清單</h2>
 <p>RaceWise 內建一份活動清單。為保持清單最新，App 可能會在你打開活動清單時，從本網站下載公開的活動清單，每天最多一次。下載時不會附帶任何個人資料。與一般網站一樣，網站寄存商可能會保留 IP 位址等基本技術紀錄。</p>
@@ -51,7 +56,7 @@
 <p>RaceWise 會保存你的資料，直到你刪除為止。舊版本的訓練計畫會作為紀錄保留。每日恢復數據只涵蓋最近 30 天，每次同步時更新。你 iPhone 本身的備份（iCloud 備份或電腦備份）可能會包括 RaceWise 在該 iPhone 上的資料，視乎你的設定。</p>
 
 <h2>刪除資料</h2>
-<p>在 RaceWise 的<b>設定 › 刪除所有資料</b>，會從你的 iPhone 刪除比賽、計畫、訓練紀錄、身體狀況紀錄、個人資料和帳戶資料，並透過 iCloud 從你的其他裝置刪除；同時會移除 RaceWise 的提醒和已傳送到 Apple Watch 的課表，並停止讀取 Apple 健康。Apple 健康本身不受影響。如你的 iPhone 離線，刪除會在重新連線後傳到 iCloud；如 iCloud 無法使用，RaceWise 會通知你，並在之後請你完成刪除。</p>
+<p>在 RaceWise 的<b>設定 › 刪除所有資料</b>，會從你的 iPhone 刪除比賽、計畫、訓練紀錄、身體狀況紀錄和個人資料，並透過 iCloud 從你的其他裝置刪除；同時會移除 RaceWise 的提醒和已傳送到 Apple Watch 的課表，並停止讀取 Apple 健康。Apple 健康本身不受影響。如你的 iPhone 離線，刪除會在重新連線後傳到 iCloud；如 iCloud 無法使用，RaceWise 會通知你，並在之後請你完成刪除。</p>
 <p>刪除 App 只會移除該部 iPhone 上的資料，不會刪除你 iCloud 中的副本。你亦可隨時在設定中取消健康、位置及 Apple Watch 權限。</p>
 
 <h2>聯絡</h2>

diff --git a/style.css b/style.css
@@ -180,3 +180,7 @@ nav a { margin-right: 0; }
   .wd .t { font-size: 10px; }
   .minis { grid-template-columns: 1fr; }
 }
+
+.minis { grid-template-columns: repeat(3, 1fr); }
+@media (max-width: 860px) { .minis { grid-template-columns: 1fr 1fr; } }
+@media (max-width: 560px) { .minis { grid-template-columns: 1fr; } }
